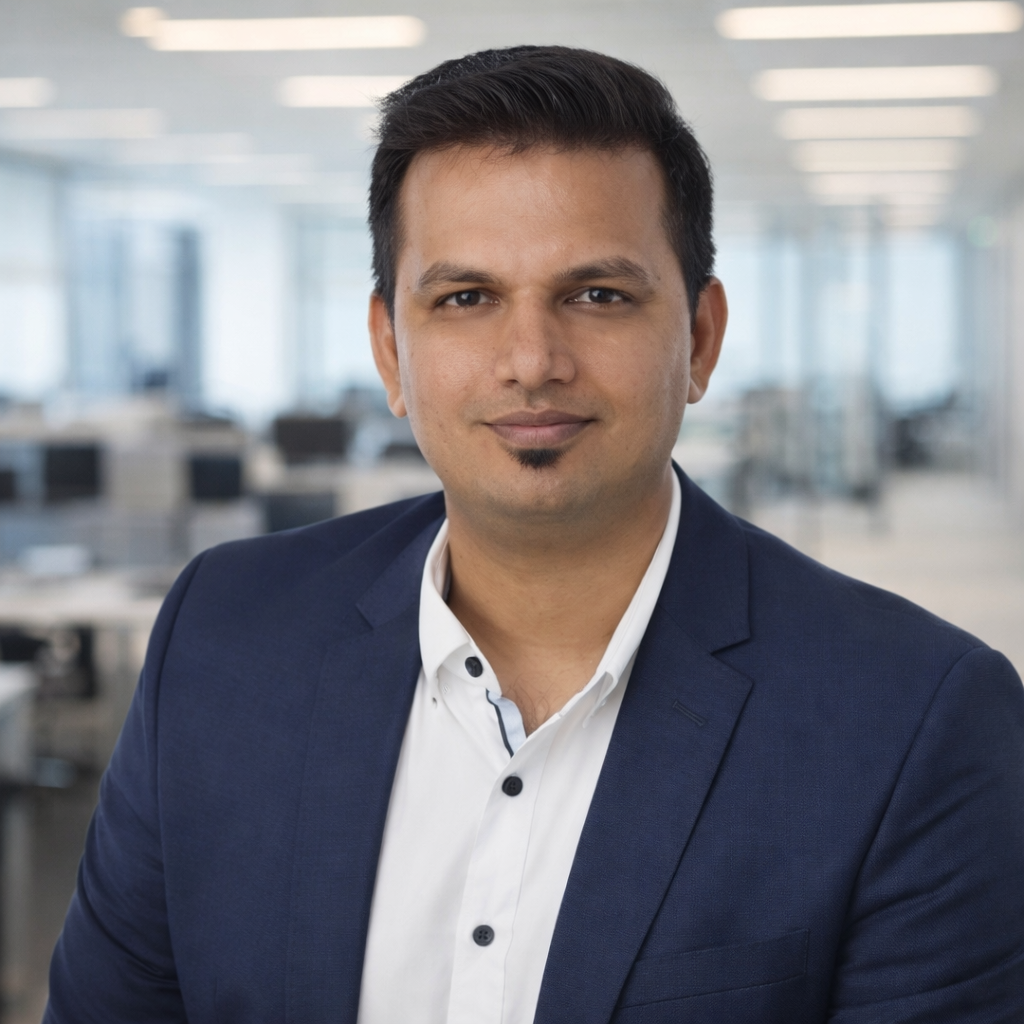
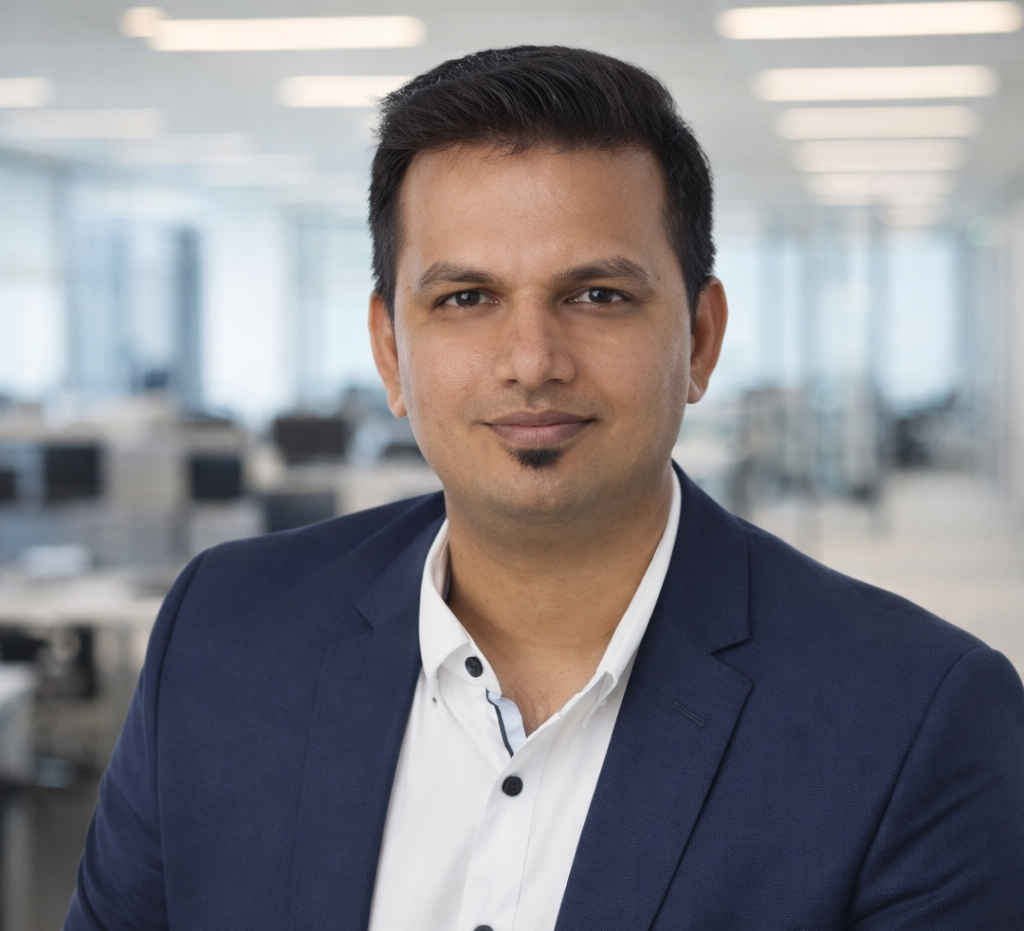
ui updates minor - team popcard | doctor panel | adi picture

diff --git a/src/app/about/page.js b/src/app/about/page.js
@@ -9,7 +9,7 @@ export default function Page() {
 			Designation: "CEO & Founder",
 			Details:
 				"Adi is an Australian expat of Indian origin, with nearly two decades of expertise in Business Development, Risk Management, and operations mainly with Australia’s most prominent banking and financial services organisations. He is renowned for his ability to establish and scale profitable business operations, forging strategic partnerships and streamlining business processes. Now, as the founder and CEO of Medibank, Adi’s goal is to drive innovation in India’s healthcare ecosystem by spearheading the development of the nation’s first patient-centric Electronic Health Record (EHR) platform.",
-			imgurl: "/images/founders/adi-main.png",
+			imgurl: "/images/founders/adi-studio.png",
 		},
 		{
 			Name: "Sudeep Banerjee Chopra",
@@ -17,6 +17,13 @@ export default function Page() {
 			Details:
 				"Sudeep leads MediBank’s technology vision and strategic direction, bringing together product thinking, software engineering, artificial intelligence, and healthcare technology. As Fractional CIO, he works closely with the engineering and product teams to shape MediBank’s technical architecture, technology roadmap, security practices, and long-term scalability. His experience building AI-driven products and technology ventures gives him a strong focus on turning complex problems into practical, user-focused solutions. At MediBank, he is responsible for ensuring that technology remains reliable, secure, scalable, and aligned with the needs of patients, healthcare professionals, and the organization.",
 			imgurl: "/images/founders/sudeepRaven.png",
+		},
+		{
+			Name: "Aman Dwivedi",
+			Designation: "Sr. Full Stack Developer",
+			Details:
+				"Aman Dwivedi is a Sr. full-stack developer and Gen AI developer building scalable SaaS platforms. Skilled in Next.js, Node.js, Prisma, and cloud infrastructure, he specializes in multi-tenant architectures, automation, and AI-driven solutions, with a strong emphasis on performance, UI/UX precision, and product innovation for Indian markets.",
+			imgurl: "/images/founders/aman-main.png",
 		},
 		{
 			Name: "Rahul Morathoti",
@@ -38,13 +45,6 @@ export default function Page() {
 			Details:
 				"Sai is responsible for the infrastructure and operational systems that keep MediBank running reliably. His work spans cloud infrastructure, deployment pipelines, automation, monitoring, environment management, and platform reliability. He works closely with the engineering team to streamline development and deployments while maintaining the security, availability, and performance expected from a healthcare platform. His focus is on building dependable infrastructure that allows MediBank to ship quickly without compromising stability or operational resilience.",
 			imgurl: "/images/founders/saiprabhas.png",
-		},
-		{
-			Name: "Aman Dwivedi",
-			Designation: "Sr. Full Stack Developer",
-			Details:
-				"Aman Dwivedi is a Sr. full-stack developer and Gen AI developer building scalable SaaS platforms. Skilled in Next.js, Node.js, Prisma, and cloud infrastructure, he specializes in multi-tenant architectures, automation, and AI-driven solutions, with a strong emphasis on performance, UI/UX precision, and product innovation for Indian markets.",
-			imgurl: "/images/founders/aman-main.png",
 		},
 		
 		
@@ -216,7 +216,7 @@ export default function Page() {
 			</section>
 
 			{/* Advisory Panel */}
-			<div className="bg-white">
+			{/* <div className="bg-white">
 				<div className="w-4/5 container py-16 pb-0">
 					<div className="relative
 							font-bold
@@ -264,10 +264,10 @@ export default function Page() {
 						})}
 					</div>
 				</div>
-			</div>
+			</div> */}
 
 			{/* Doctors who helped us */}
-			<div className="bg-white">
+			{/* <div className="bg-white">
 				<div className="w-4/5 container py-16 pb-0">
 					<div className="relative
 							font-bold
@@ -300,9 +300,9 @@ export default function Page() {
 											/>
 										</div>
 										<div className=" absolute rounded-[10px] top-0 bottom-0 w-full h-full backface_hidden rotate-y-180 bg-gradient-to-r from-purple-200 via-purple-100 to-blue-200 border text-black">
-											{" "}
+											{" "} */}
 											{/* "Backcard (remove this line when make this section line)" */}
-											<p className="p-4 text-[13px] leading-[16px]">
+											{/* <p className="p-4 text-[13px] leading-[16px]">
 												{item.Details}
 											</p>
 										</div>
@@ -316,7 +316,7 @@ export default function Page() {
 						})}
 					</div>
 				</div>
-			</div>
+			</div> */}
 
 			{/* Careers */}
 			<div id="about3" className="bg-white md:pt-[88px]">

diff --git a/src/app/globals.css b/src/app/globals.css
@@ -939,7 +939,12 @@ ol {
 	padding: 1.15rem;
 	border: 1px solid rgba(255, 255, 255, 0.72);
 	border-radius: 22px;
-	background: linear-gradient(135deg, rgba(255, 255, 255, 0.88), rgba(245, 240, 255, 0.74));
+	background: linear-gradient(
+	90deg,
+	rgb(233, 213, 255),
+	rgb(243, 232, 255),
+	rgb(191, 219, 254)
+	);
 	-webkit-backdrop-filter: blur(22px) saturate(150%);
 	backdrop-filter: blur(22px) saturate(150%);
 	box-shadow: 0 24px 60px rgba(28, 19, 93, 0.24), inset 0 1px 0 white;
@@ -960,7 +965,14 @@ ol {
 	height: 18px;
 	border-bottom: 1px solid rgba(255, 255, 255, 0.72);
 	border-left: 1px solid rgba(255, 255, 255, 0.72);
-	background: rgba(250, 247, 255, 0.84);
+	background: linear-gradient(
+	135deg,
+	rgba(233, 213, 255, 0.88),
+	rgba(243, 232, 255, 0.78),
+	rgba(191, 219, 254, 0.74)
+	);
+
+	color: #000;
 	transform: rotate(45deg);
 }
 

diff --git a/src/components/Home/Realconsequences.js b/src/components/Home/Realconsequences.js
@@ -48,6 +48,17 @@ const Realconsequences = () => {
     };
   }, [api]);
 
+   // Auto scroll every 30 seconds
+  React.useEffect(() => {
+    if (!api) return;
+
+    const interval = setInterval(() => {
+      api.scrollNext();
+    }, 15000);
+
+    return () => clearInterval(interval);
+  }, [api]);
+
   const getSlidePosition = (index) => {
     const distance = (index - current + stories.length) % stories.length;
     return distance > stories.length / 2 ? distance - stories.length : distance;

diff --git a/src/components/IcePatientLookupScreens.js b/src/components/IcePatientLookupScreens.js
@@ -20,7 +20,7 @@ function LookupHome({ onScan }) {
   return (
     <LookupShell>
             <h1 className="mt-7 text-center text-[18px] font-extrabold text-[#4d008e]">
-        Scan a QR code to access medical records
+        Scan a QR code to access medical records (Only for MediBank registered users)
       </h1>
 
       <section className="mt-5 rounded-[18px] border border-[#ded9ef] bg-white px-7 py-8 text-center shadow-[0_14px_34px_rgba(14,24,150,0.08)]">
